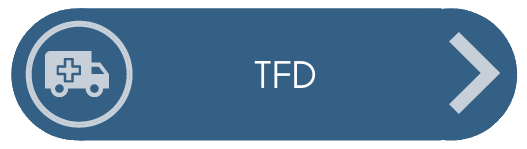
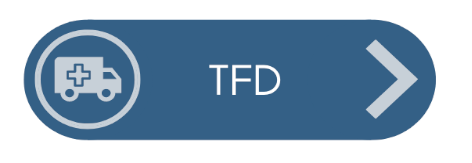
Add files via upload

diff --git a/totem/util/funcs.py b/totem/util/funcs.py
@@ -105,7 +105,7 @@ class func():
         elif tela == 7:
             self.rootAE.destroy() #Destruir janela 21
         elif tela == 8:
-            self.root22.destroy() #Destruir janela 2
+            self.rootTFD.destroy() #Destruir janela 2
 
     def fechar_prefe(self): #Função fechamento de tela Pref. do TFD, AUT, FAA, FAB, FAE, PRE
         global senha, opc, atendimento, tela, senhal
@@ -134,12 +134,42 @@ class func():
         elif tela == 7:
             self.rootAE.destroy() #Destruir janela 21
         elif tela == 8:
-            self.root22.destroy() #Destruir janela 2
+            self.rootTFD.destroy() #Destruir janela 2
+            
+    ###Função Escolha Preferencial ou Convencional TFD###
+    def abrir_janela_TFD(self): 
+        self.rootTFD = tk.Toplevel() #Variavel para atribuir tela principal
+        self.rootTFD.configure(background= cores[0]) #Cor de fundo
+        self.rootTFD.attributes('-fullscreen', True) #Modo tela Fullscreen ligado
+        self.fullScreenState = False
+        self.frameTFD =Frame(self.rootTFD, bg = cores[0]) #Definindo um Frame para a tela 
+        self.frameTFD.place(anchor='center',relx= 0.5,rely= 0.5, relwidth= 0.96, relheight= 0.96)  #Localizando o Frame na tela 
+        global senha, opc, atendimento, tela, senhal
+        senha = senhal[0]
+        opc = opcao[0] 
+        tela = 8
+
+        #Imagens na Tela 
+        self.fundo_TFD = PhotoImage(file= planos[1]) #Plano de fundo principal
+        figura_fundo_TFD = Label(self.frameTFD, image= self.fundo_TFD, bd= 0) #Chamando imagem 
+        figura_fundo_TFD.place(anchor= 'center',relx=0.5, rely=0.4, width= 500, height= 500) #Localizando a imagem na tela
+
+        self.bt_conv_tfd = PhotoImage(file= bt[8]) #Chamando imagem 
+        self.figura_bt_conv_tfd = Button(self.frameTFD, image=self.bt_conv_tfd, relief=FLAT, bd = 0, command= self.fechar_conv) #Adicionando a imagem a um botão
+        self.figura_bt_conv_tfd.place(anchor = "center", relx= 0.5, rely=0.55, width= 510, height= 150) #Localizando o botão na tela
+
+        self.bt_prefe_tfd = PhotoImage(file= bt[10]) #Chamando imagem 
+        self.figura_bt_prefe_tfd = Button(self.frameTFD, image=self.bt_prefe_tfd, relief=FLAT, bd = 0, command= self.fechar_prefe)
+        self.figura_bt_prefe_tfd.place(anchor = "center", relx= 0.5, rely=0.8, width= 510, height= 150) #Localizando o botão na tela
+
+        self.bt_voltar_tfd = PhotoImage(file = bt[12]) #Chamando imagem 
+        self.figura_bt_voltar_tfd = Button(self.frameTFD, image = self.bt_voltar_tfd, relief=FLAT, bd = 0, command= self.rootTFD.destroy) #Adicionando a imagem a um botão
+        self.figura_bt_voltar_tfd.place(anchor='center', relx= 0.13, rely=0.08, width= 200, height= 80) #Localizando o botão na tela
             
     ###Função Escolha Preferencial ou Convencional PREMIR Multiprofissionais###
     def abrir_janela_Mult(self): 
         self.rootMult = tk.Toplevel() #Variavel para atribuir tela principal
-        self.rootMult.configure(background= cores[2]) #Cor de fundo
+        self.rootMult.configure(background= cores[0]) #Cor de fundo
         self.rootMult.attributes('-fullscreen', True) #Modo tela Fullscreen ligado
         self.fullScreenState = False
         self.frameMult =Frame(self.rootMult, bg = cores[0]) #Definindo um Frame para a tela 
@@ -168,7 +198,7 @@ class func():
     ###Função Escolha Preferencial ou Convencional PREMIR Consultas###
     def abrir_janela_Consultas(self): 
         self.rootConsultas = tk.Toplevel() #Variavel para atribuir tela principal
-        self.rootConsultas.configure(background= cores[2]) #Cor de fundo
+        self.rootConsultas.configure(background= cores[0]) #Cor de fundo
         self.rootConsultas.attributes('-fullscreen', True) #Modo tela Fullscreen ligado
         self.fullScreenState = False
         self.frameConsultas =Frame(self.rootConsultas, bg = cores[0]) #Definindo um Frame para a tela 
@@ -197,7 +227,7 @@ class func():
     ###Função Escolha Preferencial ou Convencional PREMIR Ultrassom###
     def abrir_janela_Ultrassom(self): 
         self.rootUltrassom = tk.Toplevel() #Variavel para atribuir tela principal
-        self.rootUltrassom.configure(background= cores[2]) #Cor de fundo
+        self.rootUltrassom.configure(background= cores[0]) #Cor de fundo
         self.rootUltrassom.attributes('-fullscreen', True) #Modo tela Fullscreen ligado
         self.fullScreenState = False 
         self.frameUltrassom =Frame(self.rootUltrassom, bg = cores[0]) #Definindo um Frame para a tela 
@@ -226,7 +256,7 @@ class func():
     ###Função Escolha Preferencial ou Convencional FARMACIA BASICA###
     def abrir_janela_AtencaoBasica(self): 
         self.root_AB = tk.Toplevel() #Variavel para atribuir tela principal
-        self.root_AB.configure(background= cores[2]) #Cor de fundo
+        self.root_AB.configure(background= cores[0]) #Cor de fundo
         self.root_AB.attributes('-fullscreen', True) #Modo tela Fullscreen ligado
         self.fullScreenState = False 
         self.frame_AB =Frame(self.root_AB, bg = cores[0]) #Definindo um Frame para a tela 
@@ -255,7 +285,7 @@ class func():
     ###Função Escolha Preferencial ou Convencional FARMACIA ESTADO###
     def abrir_janela_Estado(self): 
         self.root_FE = tk.Toplevel() #Variavel para atribuir tela principal
-        self.root_FE.configure(background= cores[2]) #Cor de fundo
+        self.root_FE.configure(background= cores[0]) #Cor de fundo
         self.root_FE.attributes('-fullscreen', True) #Modo tela Fullscreen ligado
         self.fullScreenState = False
         self.frame_FE =Frame(self.root_FE, bg = cores[0]) #Definindo um Frame para a tela 
@@ -284,7 +314,7 @@ class func():
     ###Função Escolha Preferencial ou Convencional FARMACIA AUTO-CUSTO###
     def abrir_janela_AutoCusto(self): 
         self.root_FAC = tk.Toplevel() #Variavel para atribuir tela principal
-        self.root_FAC.configure(background= cores[2]) #Cor de fundo
+        self.root_FAC.configure(background= cores[0]) #Cor de fundo
         self.root_FAC.attributes('-fullscreen', True) #Modo tela Fullscreen ligado
         self.fullScreenState = False
         self.frame_FAC =Frame(self.root_FAC, bg = cores[0]) #Definindo um Frame para a tela 
@@ -317,7 +347,7 @@ class func():
             self.horario_ex()
         else:
             self.rootAE = tk.Toplevel() #Variavel para atribuir tela principal
-            self.rootAE.configure(background= cores[2]) #Cor de fundo
+            self.rootAE.configure(background= cores[0]) #Cor de fundo
             self.rootAE.attributes('-fullscreen', True) #Modo tela Fullscreen ligado
             self.fullScreenState = False
             self.frameAE =Frame(self.rootAE, bg = cores[0]) #Definindo um Frame para a tela 
@@ -349,7 +379,7 @@ class func():
             self.horario_ex()
         else:
             self.root_premir = tk.Toplevel()#Abertura da Tela 4 de Opções do Premir
-            self.root_premir.configure(background= cores[2]) #Cor do plano de fundo da tela 
+            self.root_premir.configure(background= cores[0]) #Cor do plano de fundo da tela 
             self.root_premir.attributes('-fullscreen', True) #Código que faz com que a tela fique em Fullscreen
             self.frame_premir =Frame(self.root_premir, bd = 4, bg = cores[0]) #Frame definido para a tela 4 com fundo branco
             self.frame_premir.place(anchor='center',relx= 0.5,rely= 0.5, relwidth= 0.96, relheight= 0.96) #Definição do local do frame expresso em porcentagem de tela
@@ -412,7 +442,7 @@ class func():
             self.horario_ex()
         else:
             self.root_farmacia = tk.Toplevel()#Abertura da Tela 4 de Opções do Premir
-            self.root_farmacia.configure(background= cores[2]) #Cor do plano de fundo da tela 
+            self.root_farmacia.configure(background= cores[0]) #Cor do plano de fundo da tela 
             self.root_farmacia.attributes('-fullscreen', True) #Código que faz com que a tela fique em Fullscreen
             self.frame_farmacia =Frame(self.root_farmacia, bd = 4, bg = cores[0]) #Frame definido para a tela 4 com fundo branco
             self.frame_farmacia.place(anchor='center',relx= 0.5,rely= 0.5, relwidth= 0.96, relheight= 0.96) #Definição do local do frame expresso em porcentagem de tela
@@ -467,7 +497,7 @@ class func():
     def abrir_janela_espera(self):
         self.root_espera = tk.Toplevel()
         self.root_espera.title('') #Atribuição do titulo
-        self.root_espera.configure(background= cores[2]) #Cor do plano de fundo da tela 
+        self.root_espera.configure(background= cores[1]) #Cor do plano de fundo da tela 
         self.root_espera.geometry('400x500') #Código que faz a tela abrir em modo tela cheia #Código que faz com que a tela fique em Fullscreen
         self.root_espera.attributes('-alpha', 0.0)
         self.root_espera.resizable(False, False) #Negar que o tamanho da tela seja reajustado

diff --git a/totem/forms/form_master.py b/totem/forms/form_master.py
@@ -29,7 +29,7 @@ try:
         
         def tela(self):
             self.root.title('Sistema de Senhas Secretaria Municipal de Saúde.') #Atribuição do titulo
-            self.root.configure(background= cores[2]) #Cor do plano de fundo da tela
+            self.root.configure(background= cores[0]) #Cor do plano de fundo da tela
             self.root.geometry("1350x720") #Código que faz a tela abrir em modo tela cheia
             self.root.attributes('-fullscreen', True) #Código que faz com que a tela fique em Fullscreen
             self.root.resizable(False, False) #Permite que o tamanho da tela seja reajustado
@@ -56,7 +56,11 @@ try:
 
             self.photo_bt_FARMARCIA = PhotoImage(file = bt[1]) #Imagem botão Farmacia
             self.bt_F = Button(self.frame, image= self.photo_bt_FARMARCIA, relief=FLAT, bd= 0, command= self.abrir_janela_Farmacias) #Adicionando a imagem a um botão
-            self.bt_F.place(anchor= 'center',relx= 0.5, rely=0.8, width= 425, height= 160) #Localizando o botão na tela
+            self.bt_F.place(anchor= 'center',relx= 0.25, rely=0.8, width= 425, height= 160) #Localizando o botão na tela
+
+            self.photo_bt_TFD = PhotoImage(file = bt[6]) #Imagem botão Farmacia
+            self.bt_TFD = Button(self.frame, image= self.photo_bt_TFD, relief=FLAT, bd= 0, command= self.abrir_janela_TFD) #Adicionando a imagem a um botão
+            self.bt_TFD.place(anchor= 'center',relx= 0.75, rely=0.8, width= 425, height= 160) #Localizando o botão na tela
 except Exception as e:
     print(e)
     pass

diff --git a/totem/util/gerar_senha.py b/totem/util/gerar_senha.py
@@ -11,7 +11,7 @@ def mm2p(milimetros): #converte milimetros em pontos
 def imprimir(senha, local): 
     txt_senha = senha
     txt_local = local   
-    data = datetime.now().strftime('%d/%m/%Y %H:%M')
+    data = datetime.now().strftime('%d/%m/%Y')
     texto_pdf = ['Atendimento','SENHA', txt_senha, 'LOCAL', txt_local, f'São francisco do Sul, {data}']
     font_style = 'Helvetica'
     font_size = [50,40,110,40,110,30]

diff --git a/totem/util/impressao/imprimir.py b/totem/util/impressao/imprimir.py
@@ -11,7 +11,7 @@ def imprimir(senha, local):
     try:
         txt_senha = senha
         txt_local = local   
-        data = datetime.now().strftime('%d/%m/%Y %H:%M')
+        data = datetime.now().strftime('%d/%m/%Y')
         texto_pdf = ['Atendimento','SENHA', txt_senha, 'LOCAL', txt_local, f'São francisco do Sul, {data}']
         font_style = 'Helvetica'
         font_size = [50,40,110,40,110,30]
